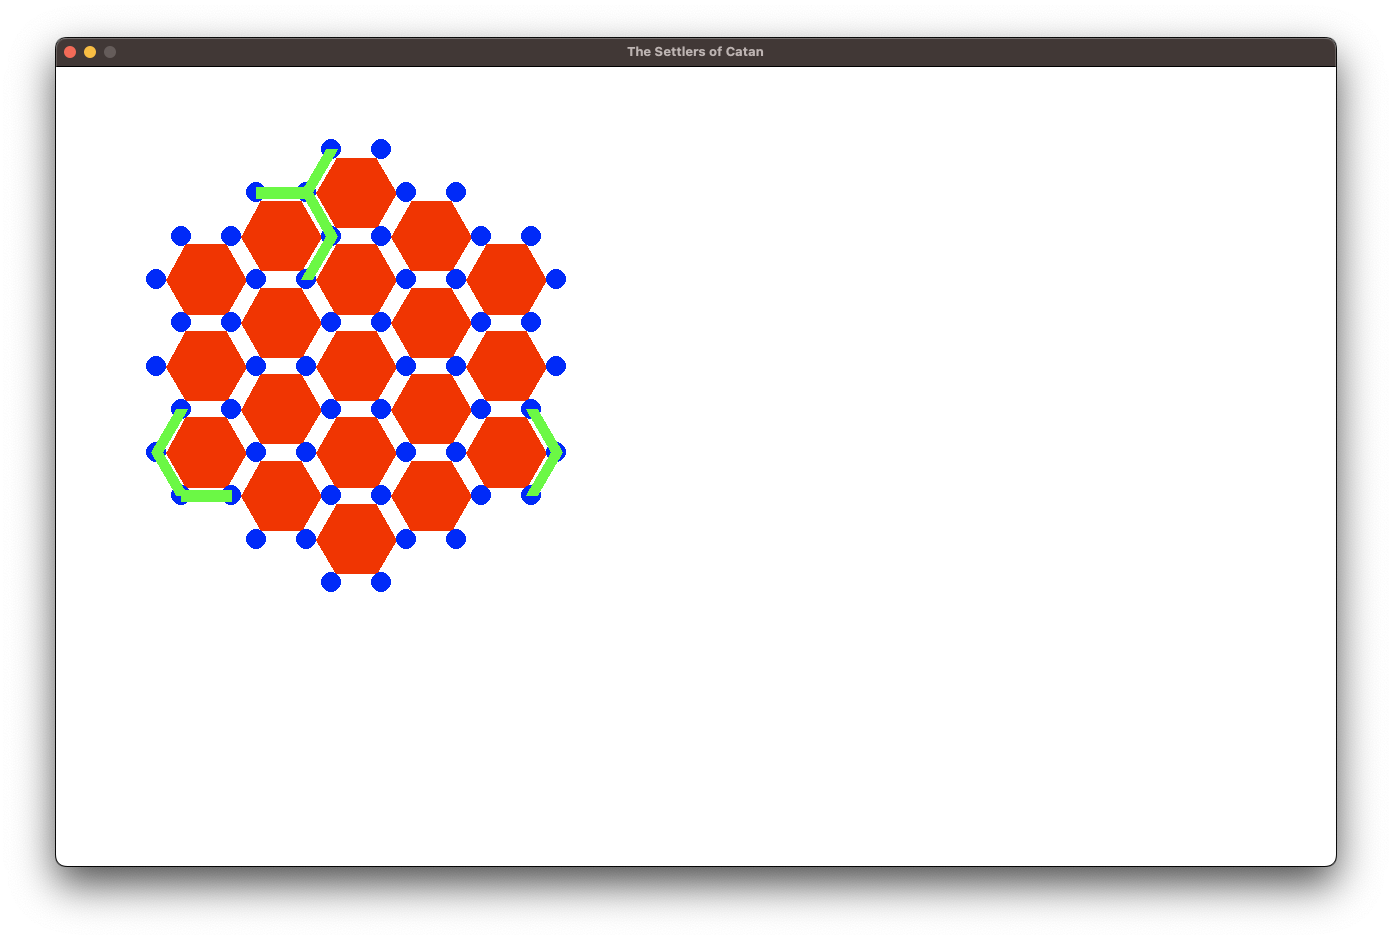
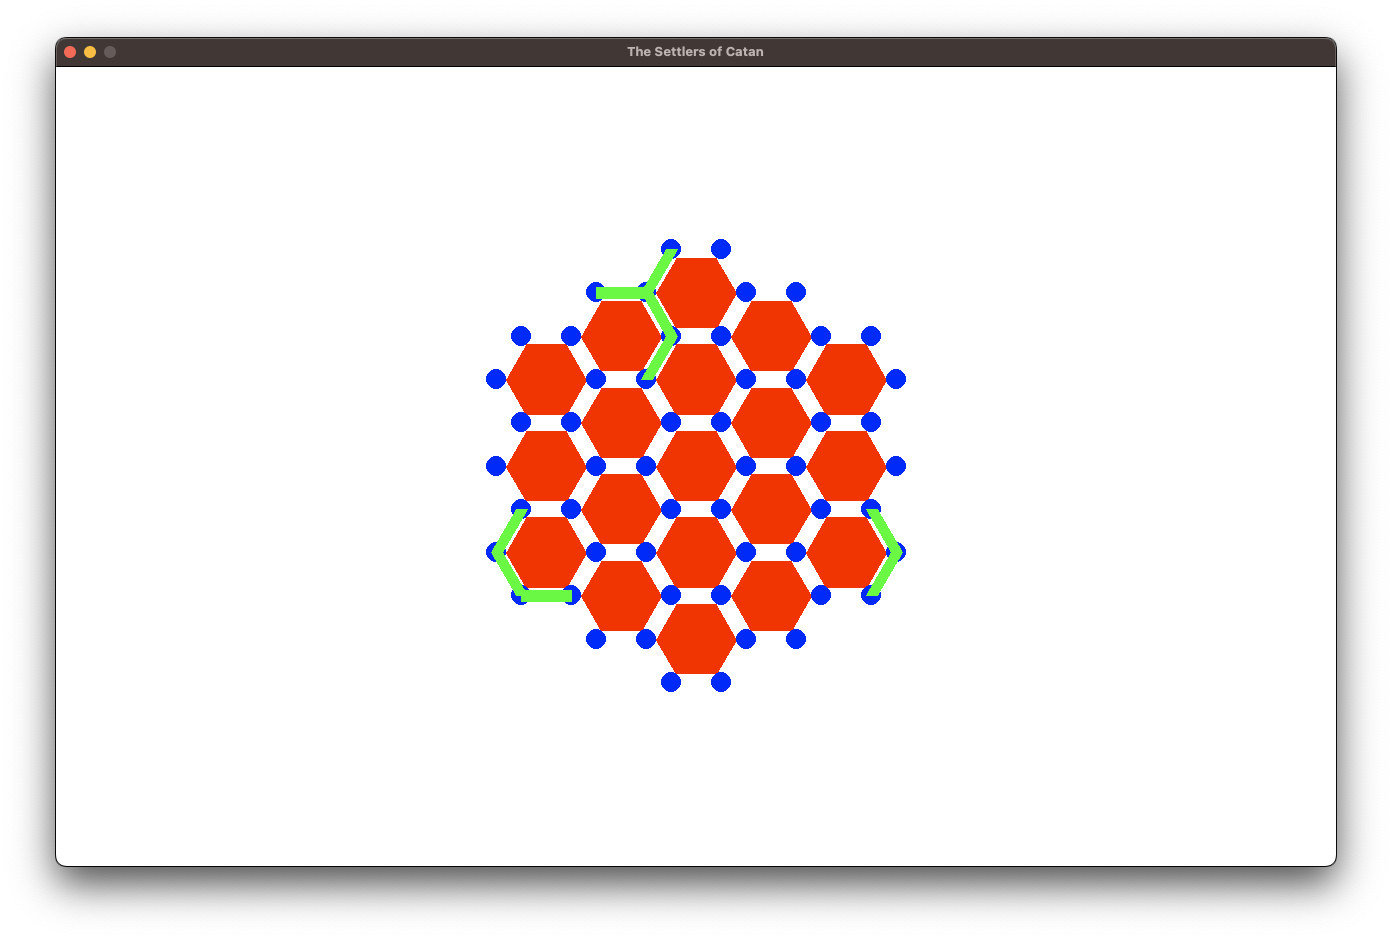
Update README and screenshot

Changed region(s): [[0.0927, 0.1543, 0.6487, 0.7404]]

diff --git a/README.md b/README.md
@@ -1,50 +1,77 @@
 # The Settlers of Catan
 
-> A game inspired by The Settlers of Catan, written in Python (PyGame). Created as a group project for our University Software Engineering assignment.
+> A game inspired by Catan, written in Python using PyGame.
 
 ![Game screenshot](screenshot.png)
 
+## Introduction
+
+The Settlers of Catan is an attempt at a clone of the game [Catan](https://www.catan.com/) (also known as "The Settlers"), with some small changes in places. It was created as a [group](#the-team) project for a Software Engineering assignment in our second year of University. From start to finish it took around three months to build.
+
 ## Table of Contents
 
+- [Introduction](#introduction)
+- [Key features](#key-features)
 - [Requirements](#requirements)
 - [Setup](#setup)
+- [Development Team](#development-team)
+- [Contributing](#contributing)
+
+## Key Features
+
+- [x] Singleplayer against AI or multiplayer (local/hot-seat).
+- [ ] Games can be saved and resumed using JSON a save-file.
 
 ## Requirements
 
 Project was created with:
 
-- Python version: 3.11.0
-- Pip version: 23.0
-- PyGame version: 2.1.3dev8
+- Python version: `3.11.0`
+- Pygame version: `2.1.3.dev8`
+- Pip version: `23.0`
 
-Setup also assumes you have the git CLI installed.
+Setup also assumes access to git CLI.
 
 ## Setup
 
-Setup instructions should apply to all platforms (Windows, Linux, and macOS). However, Debian-based distributions of Linux may not have `pip` pre-installed. In this case, install it using `sudo apt install python3-pip`.
+Setup instructions should apply to all platforms (Windows, Linux, and macOS). However, do note:
 
-1. Make sure you have the [requirements](#requirements) installed.
+1. Make sure you have the [required](#requirements) version of Python installed, and the git CLI.
 
 2. Clone the repository.
 
     ```
     git clone https://github.com/TedAlden/settlers-of-catan
-    ```
-
-3. Enter the directory.
-
-    ```
     cd settlers-of-catan
     ```
 
-4. Install the required Python packages using pip.
+3. Install the required Python packages using `pip`.
 
     ```
     python3 -m pip install -r requirements.txt
     ```
 
-5. Run the game using `python3`.
+4. Run the game using `python3`.
 
     ```
     python3 main.py
     ```
+
+**Note**:
+- Some systems may have Python 3 installed as `python3` or `python`, so adjust installation steps as necessary.
+- Debian-based distributions of Linux may not have `pip` pre-installed. In this case, install it using `sudo apt install python3-pip`.
+
+## Development Team
+
+Our team consisted of six people, of which some worked on the development of the software itself and others worked on documentation and other aspects of the project.
+
+- Ted - [@TedAlden](https://github.com/TedAlden)
+- Peter - [@PeterJames1996](https://github.com/PeterJames1996)
+- Nawaf - [@NawafQ55](https://github.com/NawafQ55)
+- Lyes - [@ls2009](https://github.com/ls2009)
+- Aiden - [@AidenGeraghty](https://github.com/AidenGeraghty)
+- Silviu
+
+## Contributing
+
+Not currently accepting contributions as it is a University assignment, but will be open after submission on 28th April 2023.
